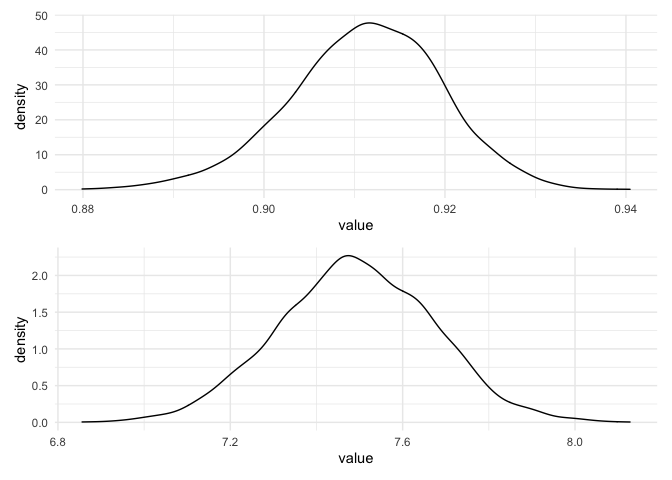
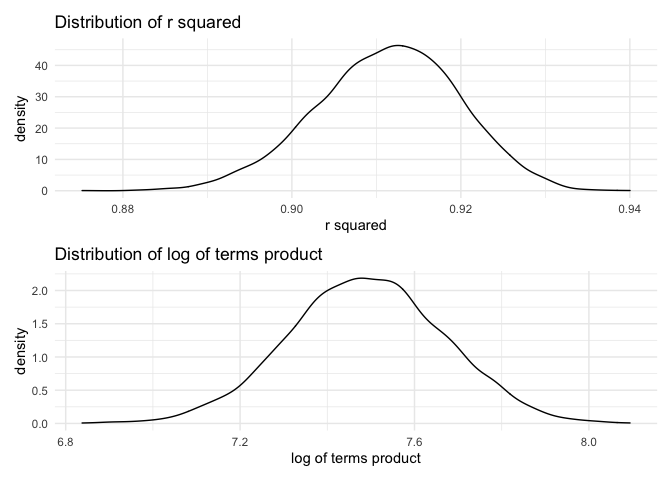
Revised plots and add descriptions/conclusins

diff --git a/p8105_hw6_ym2770.md b/p8105_hw6_ym2770.md
@@ -81,7 +81,10 @@ model_results_df %>%
   ggplot(aes(x = city_state, y = OR)) +
   geom_point() +
   geom_errorbar(aes(ymin = CI_lower, ymax = CI_upper)) +
-  theme(axis.text.x = element_text(angle = 90, vjust = 0.5, hjust = 1))
+  theme(axis.text.x = element_text(angle = 90, vjust = 0.5, hjust = 1)) +
+  labs(
+    title = "Estimated ORs and CIs for each city"
+  )
 ```
 
 ![](p8105_hw6_ym2770_files/figure-gfm/unnamed-chunk-5-1.png)<!-- -->
@@ -102,7 +105,7 @@ birthweight_df =
       babysex == 2 ~ "Female"
     )
   ) %>% 
-  select(bwt,bhead, babysex, blength, fincome, gaweeks, malform, smoken, wtgain)
+  select(bwt, bhead, babysex, blength, fincome, gaweeks, smoken, wtgain)
 
 typeof(birthweight_df$babysex)
 ```
@@ -115,7 +118,9 @@ circumference at birth, baby’s length at birth, family monthly income
 (in hundreds, rounded), gestational age, average number of cigarettes
 smoked per day during pregnancy, mother’s weight gain during pregnancy.
 
-Plot of model residuals against fitted values
+  - Plot of model residuals against fitted values
+
+<!-- end list -->
 
 ``` r
 lm_1 = lm(bwt ~ babysex + bhead + blength + fincome + gaweeks + smoken + wtgain, data = birthweight_df)
@@ -124,12 +129,19 @@ birthweight_df %>%
   add_predictions(lm_1) %>%
   add_residuals(lm_1) %>% 
   ggplot(aes(x = pred, y = resid)) +
-  geom_point(alpha = .3)
+  geom_point(alpha = .3) +
+  labs(
+    title = "Residuals vs. fitted values",
+    x = "fitted value",
+    y = "residual"
+  )
 ```
 
 ![](p8105_hw6_ym2770_files/figure-gfm/unnamed-chunk-7-1.png)<!-- -->
 
-Compare the model with the other two using cross-validation
+  - Compare the model with the other two using cross-validation
+
+<!-- end list -->
 
 ``` r
 cv_df = 
@@ -161,7 +173,10 @@ cv_df %>%
     names_prefix = "rmse_"
   ) %>% 
   ggplot(aes(x = model, y = rmse)) +
-  geom_violin()
+  geom_violin() +
+  labs(
+    title = "Distribution of RMSE of each model"
+  )
 ```
 
 ![](p8105_hw6_ym2770_files/figure-gfm/unnamed-chunk-8-1.png)<!-- -->
@@ -178,20 +193,20 @@ cv_df %>%
     names_prefix = "rmse_"
   ) %>% 
   group_by(model) %>% 
-  summarize(avg_rmse = mean(rmse))
+  summarize(avg_rmse = mean(rmse)) %>% 
+  knitr::kable(digits = 3)
 ```
 
     ## `summarise()` ungrouping output (override with `.groups` argument)
 
-    ## # A tibble: 3 x 2
-    ##   model avg_rmse
-    ##   <chr>    <dbl>
-    ## 1 mod_1     281.
-    ## 2 mod_2     334.
-    ## 3 mod_3     289.
+| model  | avg\_rmse |
+| :----- | --------: |
+| mod\_1 |     280.2 |
+| mod\_2 |     332.1 |
+| mod\_3 |     288.0 |
 
 Conclusion: The model I built has the smallest rmse compared with the
-other two and thus can predict birthweight better.
+other two and predicts birthweight better.
 
 ## Problem 3
 
@@ -219,8 +234,10 @@ weather_df =
 
     ## file min/max dates: 1869-01-01 / 2020-10-31
 
-Use 5000 bootstrap samples and produce estimates of the two quantities
-of interest for each bootstrap sample.
+  - Use 5000 bootstrap samples and produce estimates of the two
+    quantities of interest for each bootstrap sample.
+
+<!-- end list -->
 
 ``` r
 weather_boot_results = 
@@ -250,20 +267,30 @@ weather_boot_results =
   )
 ```
 
-Plot the distribution of the estimates
+  - Plot the distribution of the estimates
+
+<!-- end list -->
 
 ``` r
 r_2_plot = 
   weather_boot_results %>% 
   filter(estimate == "adj.r.squared") %>% 
   ggplot(aes(x = value)) + 
-  geom_density()
+  geom_density() +
+  labs(
+    title = "Distribution of r squared",
+    x = "r squared"
+  )
 
 log_prod_plot = 
   weather_boot_results %>% 
   filter(estimate == "log.term.product") %>% 
   ggplot(aes(x = value)) + 
-  geom_density()
+  geom_density() +
+  labs(
+    title = "Distribution of log of terms product",
+    x = "log of terms product"
+  )
 
 
 r_2_plot / log_prod_plot
@@ -271,11 +298,15 @@ r_2_plot / log_prod_plot
 
 ![](p8105_hw6_ym2770_files/figure-gfm/unnamed-chunk-12-1.png)<!-- -->
 
-For r
+For r squared, the distribution is normal, centering at about 1.91. For
+log of terms product, the distribution is also normal, centering at
+about 7.5.
 
-Using the 5000 bootstrap estimates, identify the 2.5% and 97.5%
-quantiles to provide a 95% confidence interval for r̂<sup>2</sup> and
-log (β̂ 1\*β̂2)
+  - Using the 5000 bootstrap estimates, identify the 2.5% and 97.5%
+    quantiles to provide a 95% confidence interval for r̂<sup>2</sup>
+    and log (β̂ 1\*β̂2)
+
+<!-- end list -->
 
 ``` r
 weather_boot_results %>% 
@@ -291,5 +322,8 @@ weather_boot_results %>%
 
 | estimate         | CI\_lower | CI\_upper |
 | :--------------- | --------: | --------: |
-| adj.r.squared    |     0.893 |     0.927 |
-| log.term.product |     7.136 |     7.844 |
+| adj.r.squared    |     0.894 |     0.927 |
+| log.term.product |     7.136 |     7.837 |
+
+The CI for r squared is (0.894, 0.927), and the CI for log of terms
+product is (7.153, 7.818).
